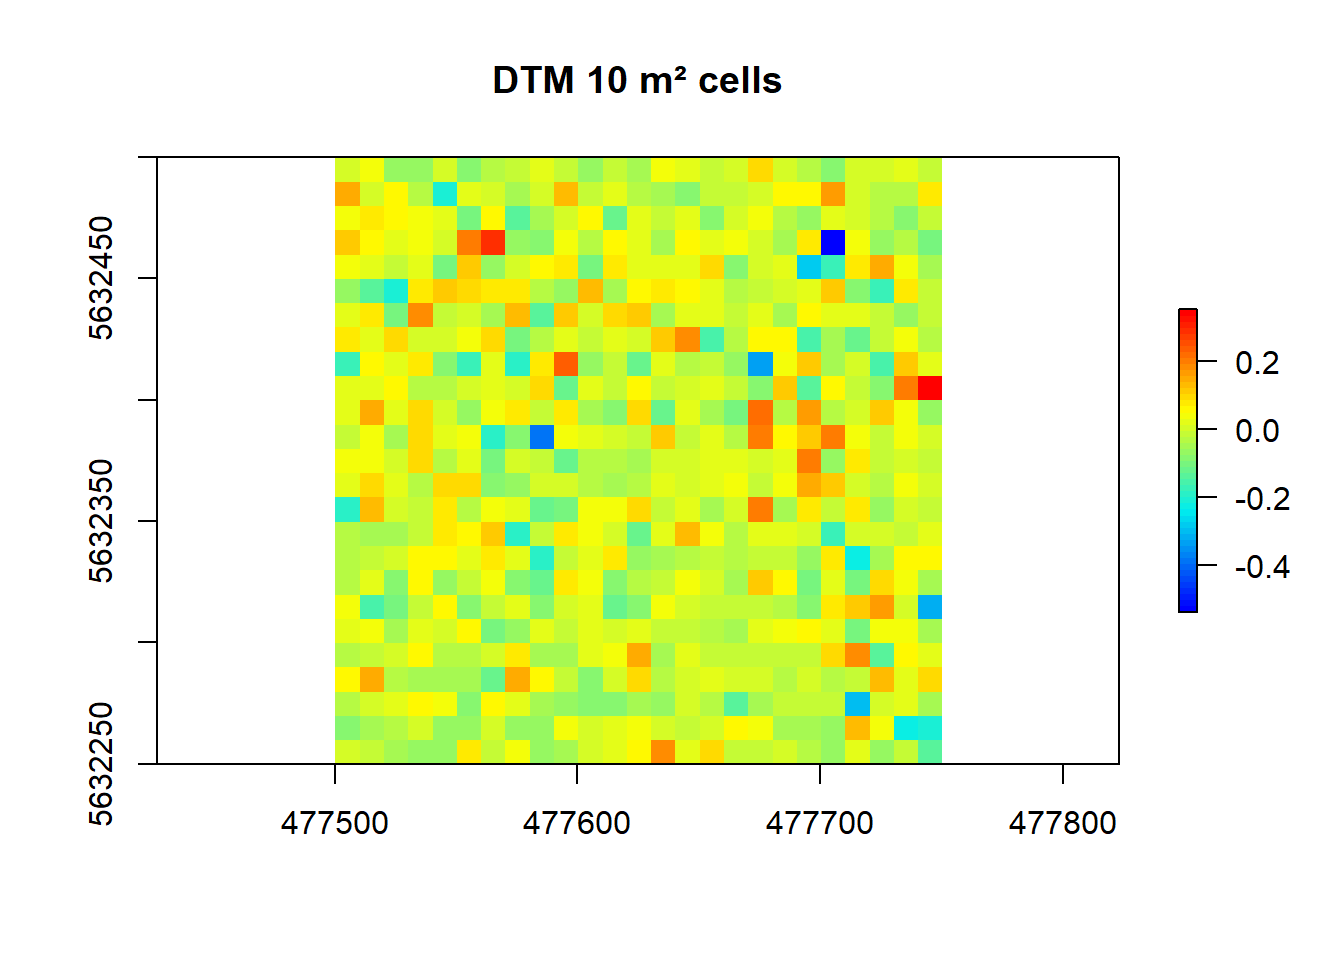
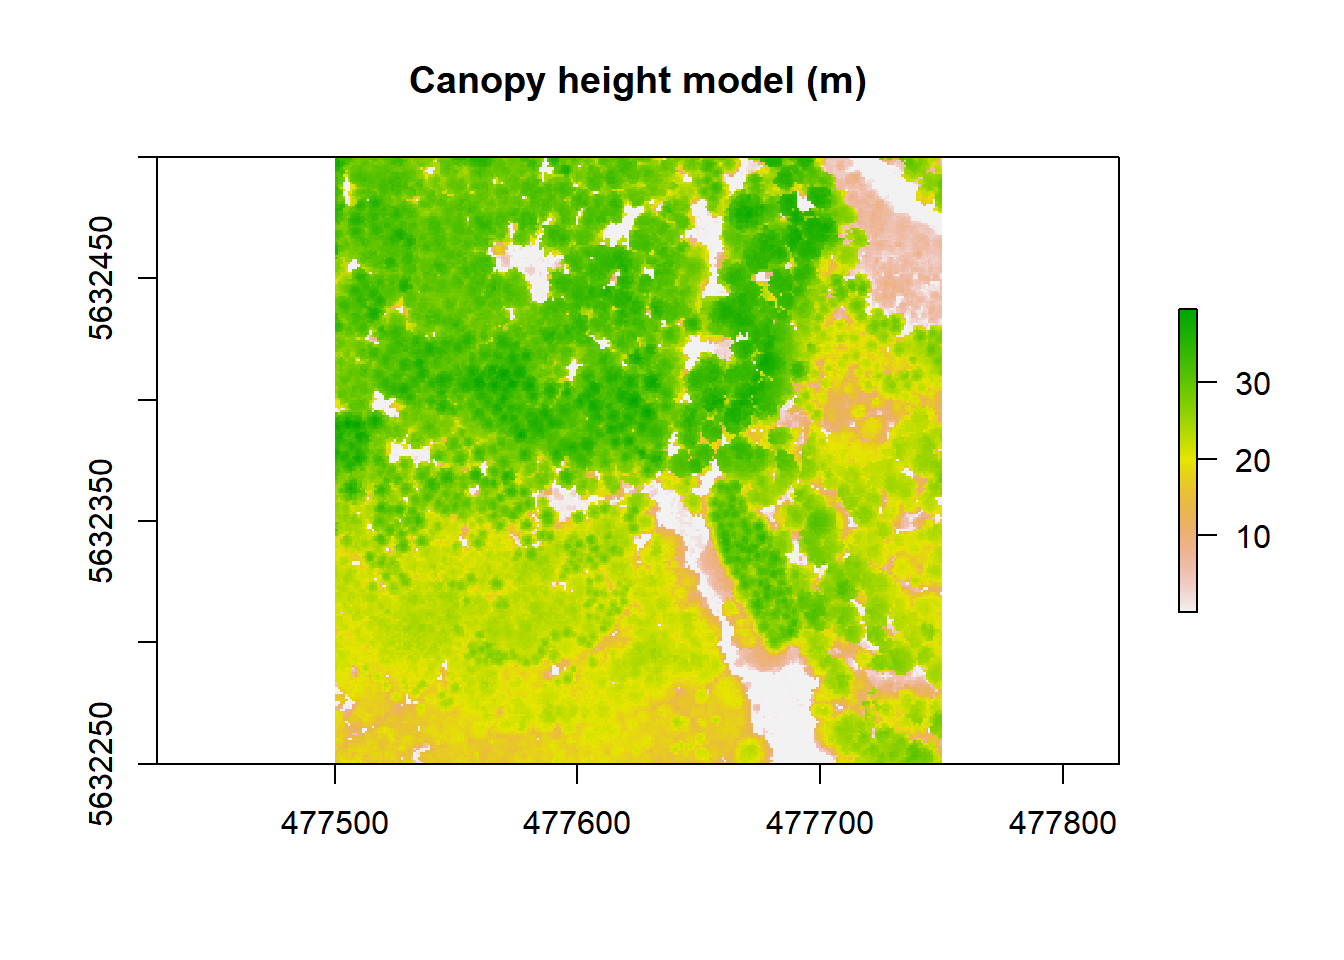
update

Changed region(s): [[0.25, 0.1562, 0.7188, 0.8125], [0.875, 0.3125, 0.9688, 0.6562], [0.2812, 0.0625, 0.6562, 0.125]]

diff --git a/docs/post/2022-01-05-deriving-ecological-indices-from-lidar-data/index.html b/docs/post/2022-01-05-deriving-ecological-indices-from-lidar-data/index.html
@@ -315,31 +315,36 @@ plot(hmean, col = height.colors(50))</code></pre>
 ## names      : V1 
 ## values     : -0.200913, 37.01462  (min, max)</code></pre>
 <p>The stdmetrics()-function contains metrics that summarize the vertical distribution of points, their intensities, and return structure.</p>
-<pre class="r"><code>metrics &lt;- grid_metrics(las, .stdmetrics, 10) # calculate standard metrics
+<pre class="r"><code>metrics &lt;- grid_metrics(las, .stdmetrics, 1) # calculate standard metrics
 plot(metrics, col = height.colors(50))</code></pre>
 <p><img src="https://JillLehn.github.io/myGIS/post/2022-01-05-deriving-ecological-indices-from-lidar-data/index_files/figure-html/unnamed-chunk-4-1.png" width="672" /></p>
 <p>With the grid metrics it is also possible to calculate the density. The point density is the number of points within a pixel divided by the area of the pixel (Roussel et al. 2021).</p>
 <pre class="r"><code>density &lt;- grid_metrics(las, ~length(Z)/1, 1) # calculate density
-plot(density, col = gray.colors(50,0,1)) # some plotting</code></pre>
+plot(density, col = gray.colors(50,0,1), main = &quot;Point density&quot;) </code></pre>
 <p><img src="https://JillLehn.github.io/myGIS/post/2022-01-05-deriving-ecological-indices-from-lidar-data/index_files/figure-html/unnamed-chunk-5-1.png" width="672" /></p>
 <p>As mentioned in Greiser et al. (2018) the elevation can influence the microclimate parameters. Because of that I will generate a digital terrain model (DTM).</p>
-<pre class="r"><code>dtm &lt;- lidR::grid_terrain(las, res = 10.0, algorithm = lidR::knnidw(k = 6L, p = 2))
+<pre class="r"><code>dtm &lt;- grid_terrain(las, res = 1, algorith = tin())
 
 dtm</code></pre>
 <pre><code>## class      : RasterLayer 
-## dimensions : 25, 25, 625  (nrow, ncol, ncell)
-## resolution : 10, 10  (x, y)
+## dimensions : 250, 250, 62500  (nrow, ncol, ncell)
+## resolution : 1, 1  (x, y)
 ## extent     : 477500, 477750, 5632250, 5632500  (xmin, xmax, ymin, ymax)
 ## crs        : +proj=utm +zone=32 +ellps=GRS80 +towgs84=0,0,0,0,0,0,0 +units=m +no_defs 
 ## source     : memory
 ## names      : Z 
-## values     : -0.538, 0.355  (min, max)</code></pre>
-<pre class="r"><code>plot(dtm, col = height.colors(50), main = &quot;DTM 10 m² cells&quot;)</code></pre>
+## values     : -0.241, 0.539  (min, max)</code></pre>
+<pre class="r"><code>plot(dtm, col = height.colors(50), main = &quot;Digital terrain model (1 m² cells)&quot;)</code></pre>
 <p><img src="https://JillLehn.github.io/myGIS/post/2022-01-05-deriving-ecological-indices-from-lidar-data/index_files/figure-html/unnamed-chunk-6-1.png" width="672" /></p>
+<p>A canopy height model (chm) can also be used as a predictor for the microclimate.</p>
+<pre class="r"><code>chm  &lt;- grid_canopy(las, res = 1, algorithm = p2r())
+
+plot(chm, main = &quot;Canopy height model (m)&quot;)</code></pre>
+<p><img src="https://JillLehn.github.io/myGIS/post/2022-01-05-deriving-ecological-indices-from-lidar-data/index_files/figure-html/unnamed-chunk-7-1.png" width="672" /></p>
 </div>
 <div id="conclusion" class="section level2">
 <h2>Conclusion</h2>
-<p>Finally, I think that the derived metrics, especially at the grid level, can be used to predict the microclimate parameters. There are a lot of standard metrics, which can be used. Also the DTM can be useful to predict the microclimate parameters.
+<p>Finally, I think that the derived metrics, especially at the grid level, can be used to predict the microclimate parameters. There are a lot of standard metrics, which can be used. Also the DTM or the canopy height model can be useful to predict the microclimate parameters.
 There are many others predictors as mentioned above, which can be used to obtain a reliable prediction of the microclimate parameters. In further computations it can be uselful to calculate for example the leaf area index (LAI),the foliage height diversity (FHD) or crown patchness (CP).</p>
 </div>
 <div id="references" class="section level2">

diff --git a/content/post/2022-01-05-deriving-ecological-indices-from-lidar-data/index.html b/content/post/2022-01-05-deriving-ecological-indices-from-lidar-data/index.html
@@ -131,31 +131,36 @@ plot(hmean, col = height.colors(50))</code></pre>
 ## names      : V1 
 ## values     : -0.200913, 37.01462  (min, max)</code></pre>
 <p>The stdmetrics()-function contains metrics that summarize the vertical distribution of points, their intensities, and return structure.</p>
-<pre class="r"><code>metrics &lt;- grid_metrics(las, .stdmetrics, 10) # calculate standard metrics
+<pre class="r"><code>metrics &lt;- grid_metrics(las, .stdmetrics, 1) # calculate standard metrics
 plot(metrics, col = height.colors(50))</code></pre>
 <p><img src="{{< blogdown/postref >}}index_files/figure-html/unnamed-chunk-4-1.png" width="672" /></p>
 <p>With the grid metrics it is also possible to calculate the density. The point density is the number of points within a pixel divided by the area of the pixel (Roussel et al. 2021).</p>
 <pre class="r"><code>density &lt;- grid_metrics(las, ~length(Z)/1, 1) # calculate density
-plot(density, col = gray.colors(50,0,1)) # some plotting</code></pre>
+plot(density, col = gray.colors(50,0,1), main = &quot;Point density&quot;) </code></pre>
 <p><img src="{{< blogdown/postref >}}index_files/figure-html/unnamed-chunk-5-1.png" width="672" /></p>
 <p>As mentioned in Greiser et al. (2018) the elevation can influence the microclimate parameters. Because of that I will generate a digital terrain model (DTM).</p>
-<pre class="r"><code>dtm &lt;- lidR::grid_terrain(las, res = 10.0, algorithm = lidR::knnidw(k = 6L, p = 2))
+<pre class="r"><code>dtm &lt;- grid_terrain(las, res = 1, algorith = tin())
 
 dtm</code></pre>
 <pre><code>## class      : RasterLayer 
-## dimensions : 25, 25, 625  (nrow, ncol, ncell)
-## resolution : 10, 10  (x, y)
+## dimensions : 250, 250, 62500  (nrow, ncol, ncell)
+## resolution : 1, 1  (x, y)
 ## extent     : 477500, 477750, 5632250, 5632500  (xmin, xmax, ymin, ymax)
 ## crs        : +proj=utm +zone=32 +ellps=GRS80 +towgs84=0,0,0,0,0,0,0 +units=m +no_defs 
 ## source     : memory
 ## names      : Z 
-## values     : -0.538, 0.355  (min, max)</code></pre>
-<pre class="r"><code>plot(dtm, col = height.colors(50), main = &quot;DTM 10 m² cells&quot;)</code></pre>
+## values     : -0.241, 0.539  (min, max)</code></pre>
+<pre class="r"><code>plot(dtm, col = height.colors(50), main = &quot;Digital terrain model (1 m² cells)&quot;)</code></pre>
 <p><img src="{{< blogdown/postref >}}index_files/figure-html/unnamed-chunk-6-1.png" width="672" /></p>
+<p>A canopy height model (chm) can also be used as a predictor for the microclimate.</p>
+<pre class="r"><code>chm  &lt;- grid_canopy(las, res = 1, algorithm = p2r())
+
+plot(chm, main = &quot;Canopy height model (m)&quot;)</code></pre>
+<p><img src="{{< blogdown/postref >}}index_files/figure-html/unnamed-chunk-7-1.png" width="672" /></p>
 </div>
 <div id="conclusion" class="section level2">
 <h2>Conclusion</h2>
-<p>Finally, I think that the derived metrics, especially at the grid level, can be used to predict the microclimate parameters. There are a lot of standard metrics, which can be used. Also the DTM can be useful to predict the microclimate parameters.
+<p>Finally, I think that the derived metrics, especially at the grid level, can be used to predict the microclimate parameters. There are a lot of standard metrics, which can be used. Also the DTM or the canopy height model can be useful to predict the microclimate parameters.
 There are many others predictors as mentioned above, which can be used to obtain a reliable prediction of the microclimate parameters. In further computations it can be uselful to calculate for example the leaf area index (LAI),the foliage height diversity (FHD) or crown patchness (CP).</p>
 </div>
 <div id="references" class="section level2">

diff --git a/content/post/2022-01-05-deriving-ecological-indices-from-lidar-data/index.md b/content/post/2022-01-05-deriving-ecological-indices-from-lidar-data/index.md
@@ -182,7 +182,7 @@ hmean
 The stdmetrics()-function contains metrics that summarize the vertical distribution of points, their intensities, and return structure.
 
 ```r
-metrics <- grid_metrics(las, .stdmetrics, 10) # calculate standard metrics
+metrics <- grid_metrics(las, .stdmetrics, 1) # calculate standard metrics
 plot(metrics, col = height.colors(50))
 ```
 
@@ -193,7 +193,7 @@ With the grid metrics it is also possible to calculate the density. The point de
 
 ```r
 density <- grid_metrics(las, ~length(Z)/1, 1) # calculate density
-plot(density, col = gray.colors(50,0,1)) # some plotting
+plot(density, col = gray.colors(50,0,1), main = "Point density") 
 ```
 
 <img src="index_files/figure-html/unnamed-chunk-5-1.png" width="672" />
@@ -202,31 +202,43 @@ plot(density, col = gray.colors(50,0,1)) # some plotting
 As mentioned in Greiser et al. (2018) the elevation can influence the microclimate parameters. Because of that I will generate a digital terrain model (DTM).
 
 ```r
-dtm <- lidR::grid_terrain(las, res = 10.0, algorithm = lidR::knnidw(k = 6L, p = 2))
+dtm <- grid_terrain(las, res = 1, algorith = tin())
 
 dtm
 ```
 
 ```
 ## class      : RasterLayer 
-## dimensions : 25, 25, 625  (nrow, ncol, ncell)
-## resolution : 10, 10  (x, y)
+## dimensions : 250, 250, 62500  (nrow, ncol, ncell)
+## resolution : 1, 1  (x, y)
 ## extent     : 477500, 477750, 5632250, 5632500  (xmin, xmax, ymin, ymax)
 ## crs        : +proj=utm +zone=32 +ellps=GRS80 +towgs84=0,0,0,0,0,0,0 +units=m +no_defs 
 ## source     : memory
 ## names      : Z 
-## values     : -0.538, 0.355  (min, max)
+## values     : -0.241, 0.539  (min, max)
 ```
 
 ```r
-plot(dtm, col = height.colors(50), main = "DTM 10 m² cells")
+plot(dtm, col = height.colors(50), main = "Digital terrain model (1 m² cells)")
 ```
 
 <img src="index_files/figure-html/unnamed-chunk-6-1.png" width="672" />
 
+A canopy height model (chm) can also be used as a predictor for the microclimate.
+
+
+```r
+chm  <- grid_canopy(las, res = 1, algorithm = p2r())
+
+plot(chm, main = "Canopy height model (m)")
+```
+
+<img src="index_files/figure-html/unnamed-chunk-7-1.png" width="672" />
+
+
 ## Conclusion 
 
-Finally, I think that the derived metrics, especially at the grid level, can be used to predict the microclimate parameters. There are a lot of standard metrics, which can be used. Also the DTM can be useful to predict the microclimate parameters. 
+Finally, I think that the derived metrics, especially at the grid level, can be used to predict the microclimate parameters. There are a lot of standard metrics, which can be used. Also the DTM or the canopy height model can be useful to predict the microclimate parameters. 
 There are many others predictors as mentioned above, which can be used to obtain a reliable prediction of the microclimate parameters. In further computations it can be uselful to calculate for example the leaf area index (LAI),the foliage height diversity (FHD) or crown patchness (CP).
 
 ## References
